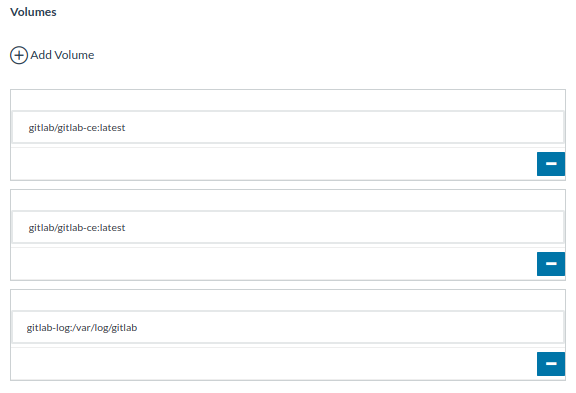
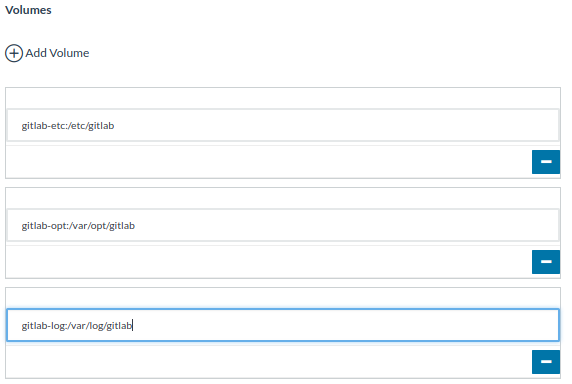
Corrigiendo imagen y lectura

Changed region(s): [[0.0, 0.2188, 0.9808, 1.0], [0.0, 0.0938, 0.1783, 0.1875], [0.0, 0.0, 0.1189, 0.0625]]

diff --git a/README.md b/README.md
@@ -33,22 +33,29 @@ Ahora Rancher en la sección de Host debería verse así:
 ![Nodos Rancher](images/rancher_nodes.png)
 #### 2.1.1 Desplegando Gitlab
 
->Cree un stack llamado gitlab.
+>## Image
+1.Cree un stack llamado gitlab.
+
+>2.Adicione un servicio al stack llamelo gitlab
 >
-Adicione un servicio al stack llamelo gitlab
+>3.Image: gitlab/gitlab-ce:latest
+
+![paso](images/rancher_s01.png)
+
+
+> ## Volumes:
+> En la pestaña de **volumenes** configure los siguientes.
+
+>  1. gitlab-etc:/etc/gitlab
 >
-Image: gitlab/gitlab-ce:latest
+>  2. gitlab-opt:/var/opt/gitlab
 >
-Volumes:
->
-gitlab-etc:/etc/gitlab
->
-gitlab-opt:/var/opt/gitlab
->
-gitlab-log:/var/log/gitlab
->
-Networking
->
+>  3. gitlab-log:/var/log/gitlab
+
+![paso](images/rancher_s02.png)
+
+> ## Networking
+> En la pestañana de **networking** configure lo siguiente
 Configure el nombre del host: git
 >
 Health Check
@@ -56,11 +63,17 @@ Health Check
 HTTP: Port 80
 Path: GET /HTTP/1.0
 >
-Add a sidekick to the service called postfix
+![paso](images/rancher_s03.png)
+![paso](images/rancher_s04.png)
+
+>Add a sidekick to the service called **postfix**
 >
 Image: tozd/postfix
->
-Environment:
+
+![paso](images/rancher_s05.png)
+
+
+>## Environment:
 >
 MY_NETWORKS:10.42.0.0/16, 127.0.0.0/8
 >
@@ -76,11 +89,7 @@ TCP: Port 25
 
 Lo mismo, pero en imágenes:
 
-![paso](images/rancher_s01.png)
-![paso](images/rancher_s02.png)
-![paso](images/rancher_s03.png)
-![paso](images/rancher_s04.png)
-![paso](images/rancher_s05.png)
+
 ![paso](images/rancher_s06.png)
 ![paso](images/rancher_s07.png)
 ![paso](images/rancher_s08.png)
